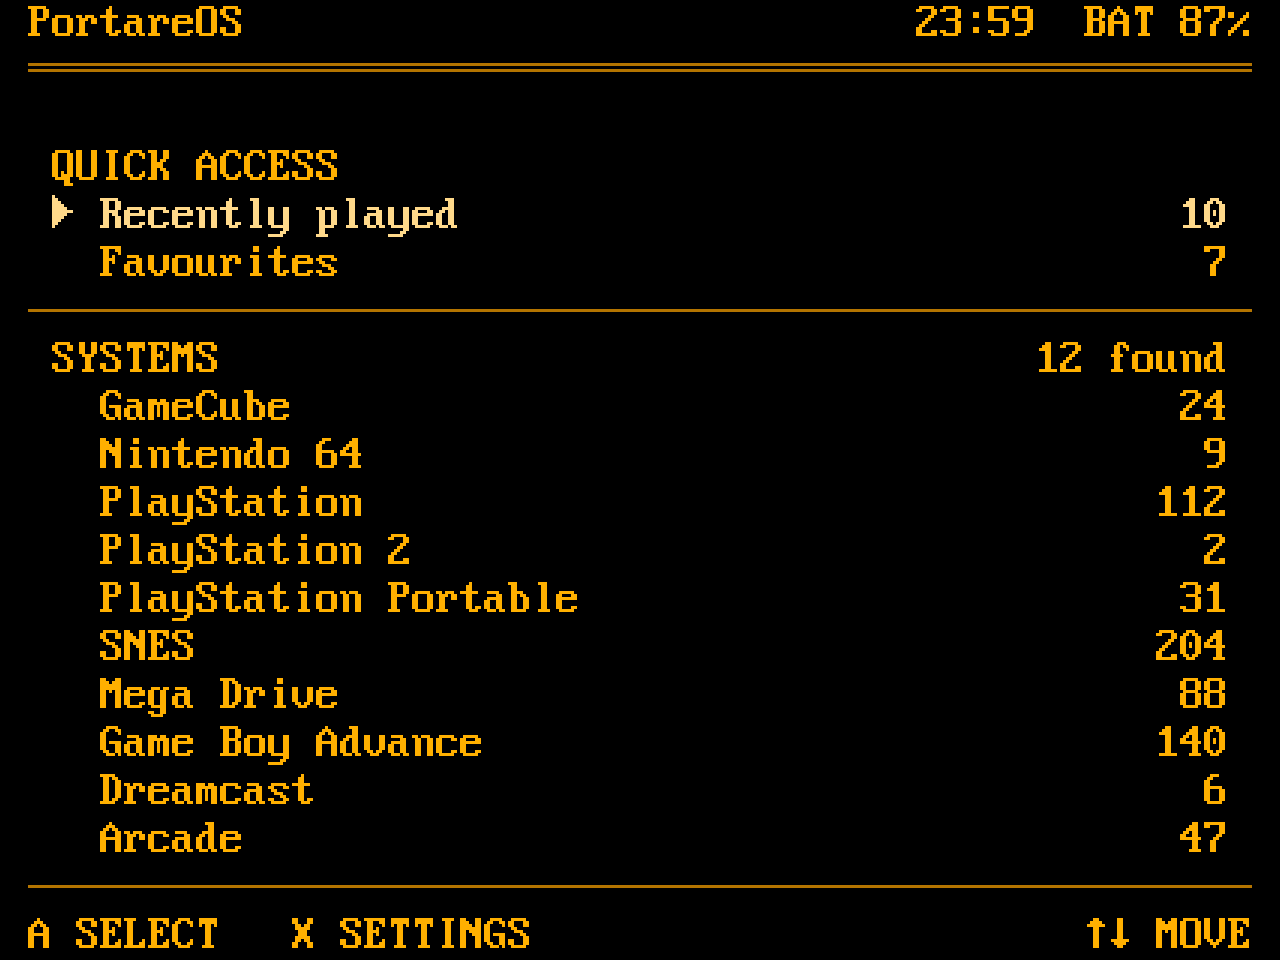
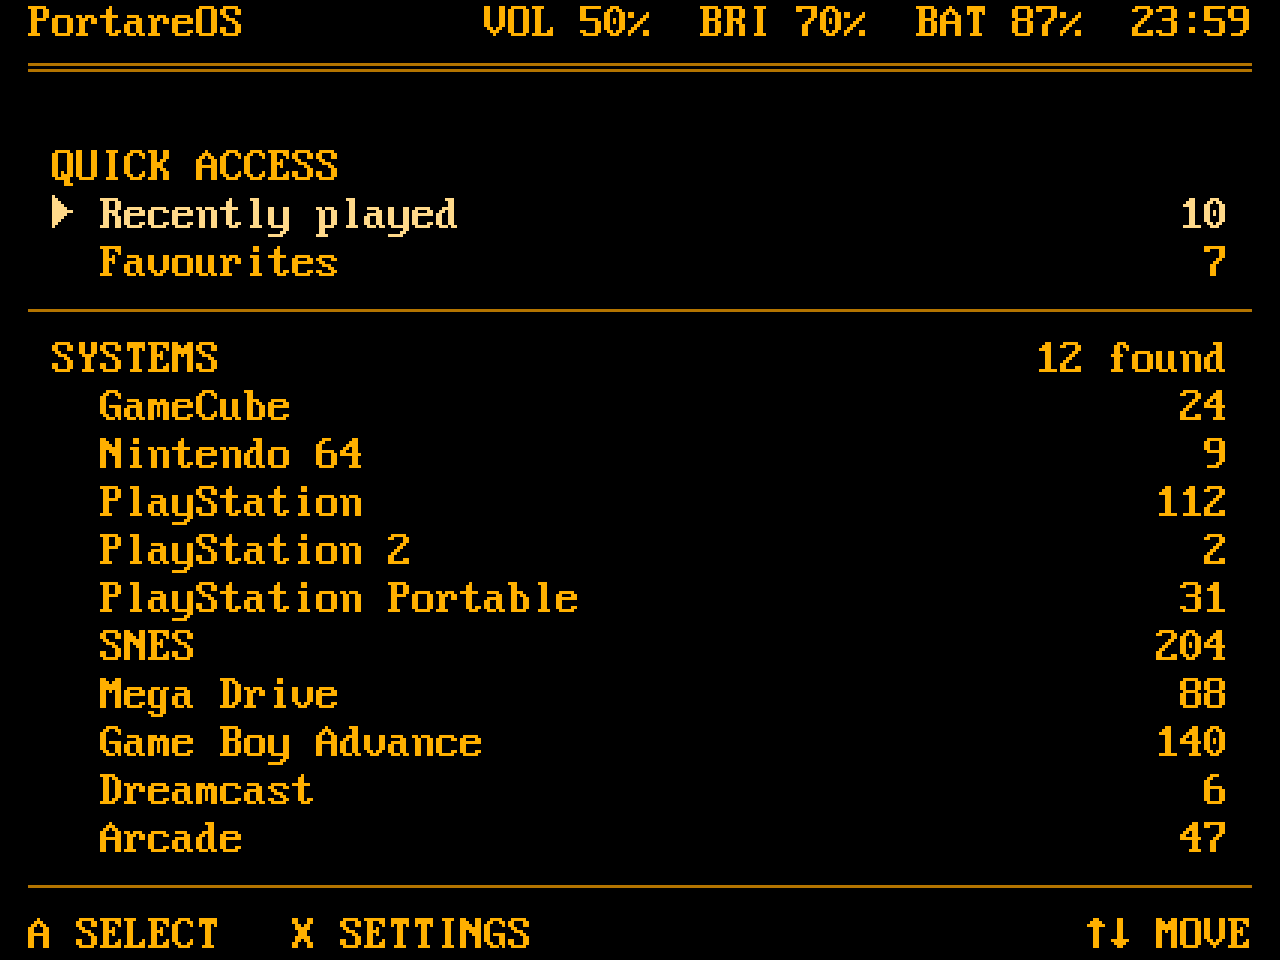
mockup: the clock at the right edge, the footer as the favourite cue
Headers use the device's order, VOL BRI BAT then the clock. Under a
game that is a favourite the footer says Y REMOVE, otherwise
Y FAVOURITE, in every list; a second games screen shows the first.

diff --git a/tools/mockup.py b/tools/mockup.py
@@ -30,7 +30,7 @@ SYS = [("GameCube", 24), ("Nintendo 64", 9), ("PlayStation", 112),
        ("Mega Drive", 88), ("Game Boy Advance", 140), ("Dreamcast", 6),
        ("Arcade", 47)]
 
-systems = [row(" PortareOS", "23:59  BAT 87% "), RULE, "",
+systems = [row(" PortareOS", "VOL 50%  BRI 70%  BAT 87%  23:59 "), RULE, "",
            row("  SYSTEMS", "12 found  "), ""]
 systems += [item(i == 0, n, str(c)) for i, (n, c) in enumerate(SYS)]
 systems += ["", THIN, row(" A SELECT   X SETTINGS", "\u2191\u2193 MOVE ")]
@@ -193,7 +193,7 @@ tools += [THIN,
           "    press START + SELECT.", ""]
 tools += [THIN, " B RUN   A BACK"]
 
-launching = [row(" PortareOS", "23:59  BAT 87% "), RULE] + [""] * 4
+launching = [row(" PortareOS", "VOL 50%  BRI 70%  BAT 87%  23:59 "), RULE] + [""] * 4
 launching += ["           Tekken 3 (USA)", "",
               "           swanstation", "",
               "           handing over the display\u2026"]
@@ -209,7 +209,7 @@ launching += [""] * 7
 # it needs no curation. The cross-system views use short system names so
 # the title keeps the width the long-title work just won.
 QUICK = [("Recently played", 10), ("Favourites", 7)]
-systems_quick = [row(" PortareOS", "23:59  BAT 87% "), RULE, "",
+systems_quick = [row(" PortareOS", "VOL 50%  BRI 70%  BAT 87%  23:59 "), RULE, "",
                  row("  QUICK ACCESS", "")]
 systems_quick += [item(i == 0, n, str(c)) for i, (n, c) in enumerate(QUICK)]
 systems_quick += [THIN, row("  SYSTEMS", "12 found  ")]
@@ -229,6 +229,12 @@ def scrolled(t, shift):
     return t[shift:shift + TITLE_W]
 def game(sel, title, shift=0):
     return item(sel, scrolled(title, shift) if sel else cut(title))
+
+# The footer is the favourite cue: Y FAVOURITE under a game that is not
+# one, Y REMOVE under one that is. Nothing in the list itself says so.
+def games_footer(fav):
+    return row(" A LAUNCH   B BACK   Y " + ("REMOVE" if fav else "FAVOURITE"),
+               "\u2191\u2193 MOVE ")
 SNES = [("Donkey Kong Country 2 - Diddy's Kong Quest (USA) (En,Fr)", False),
         ("Final Fantasy III (USA) (Rev 1)", True),
         ("Legend of Zelda, The - A Link to the Past (USA)", True),
@@ -239,10 +245,15 @@ SNES = [("Donkey Kong Country 2 - Diddy's Kong Quest (USA) (En,Fr)", False),
         ("Super Metroid (Japan, USA) (En,Ja)", False),
         ("Teenage Mutant Ninja Turtles IV - Turtles in Time (USA)", False),
         ("Yoshi's Island - Super Mario World 2 (USA) (Rev 1)", False)]
-games_long = [row(" PortareOS  \u203a  Super Nintendo", "204 games "), RULE, ""]
-games_long += [game(t.startswith("Teenage"), t, shift=9) for t, _ in SNES]
-games_long += ["", row("", "9 of 204  "), "", THIN,
-               row(" A LAUNCH   B BACK   Y FAVOURITE", "\u2191\u2193 MOVE ")]
+def games_screen(selected, shift=0):
+    lines = [row(" PortareOS  \u203a  Super Nintendo", "204 games "), RULE, ""]
+    lines += [game(t == selected, t, shift=shift) for t, _ in SNES]
+    n = 1 + [t for t, _ in SNES].index(selected)
+    fav = dict(SNES)[selected]
+    return lines + ["", row("", "%d of 204  " % n), "", THIN, games_footer(fav)]
+
+games_long = games_screen("Teenage Mutant Ninja Turtles IV - Turtles in Time (USA)", shift=9)
+games_fav = games_screen("Super Mario World (USA)")
 
 # Ten launches, newest first, written when runemu exits with status 0,
 # so a game that never started is not in it. Short system names and the
@@ -287,6 +298,7 @@ if __name__ == "__main__":
                  ("LAUNCHING", launching),
                  ("PROPOSED - SYSTEMS WITH QUICK ACCESS", systems_quick),
                  ("PROPOSED - GAMES, LONG TITLES", games_long),
+                 ("PROPOSED - GAMES, A FAVOURITE SELECTED", games_fav),
                  ("PROPOSED - RECENTLY PLAYED", recent),
                  ("PROPOSED - FAVOURITES", favourites)):
         print(screen(t, s))

diff --git a/tools/mockup_png.py b/tools/mockup_png.py
@@ -65,6 +65,7 @@ if __name__ == "__main__":
     glyphs = font()
     for name, lines in (("systems-quick-access", mockup.systems_quick),
                         ("games-long-titles", mockup.games_long),
+                        ("games-favourite-selected", mockup.games_fav),
                         ("recently-played", mockup.recent),
                         ("favourites", mockup.favourites)):
         render(lines, os.path.join(out, name + ".png"), glyphs)

diff --git a/docs/lists.md b/docs/lists.md
@@ -12,7 +12,8 @@ launcher's own font, so what is shown is what the device can draw.
 A category of its own above the systems: cross-system shortcuts first,
 platforms below, a thin rule between and no blank row. Recently played
 comes first because it needs no curation. The systems section keeps its
-title and count. The games screen no longer names the emulator under the
+title and count. The header keeps the device's order, with the clock at
+the right edge. The games screen no longer names the emulator under the
 list; which core runs a system is not the player's concern.
 
 ![Systems with Quick Access](images/systems-quick-access.png)
@@ -33,9 +34,11 @@ game quit with Home + Start is.
 One file, a game path per line, in the launcher's config directory. It is
 pruned of paths that no longer exist when it is read, so a renamed or
 deleted ROM leaves no dead row. `Y` toggles the selected game wherever a
-game is listed; inside Favourites the same key removes it, and the hint
-says `Y REMOVE`. Hints name keys and nothing else, and nothing marks a
-favourite in a system's list: Favourites is where favourites are.
+game is listed, and the footer is the cue: `Y FAVOURITE` under a game
+that is not one, `Y REMOVE` under one that is, in every list. Nothing in
+the list itself marks a favourite, and hints name keys and nothing else.
+
+![Games, a favourite selected](images/games-favourite-selected.png)
 
 ![Favourites](images/favourites.png)
 
